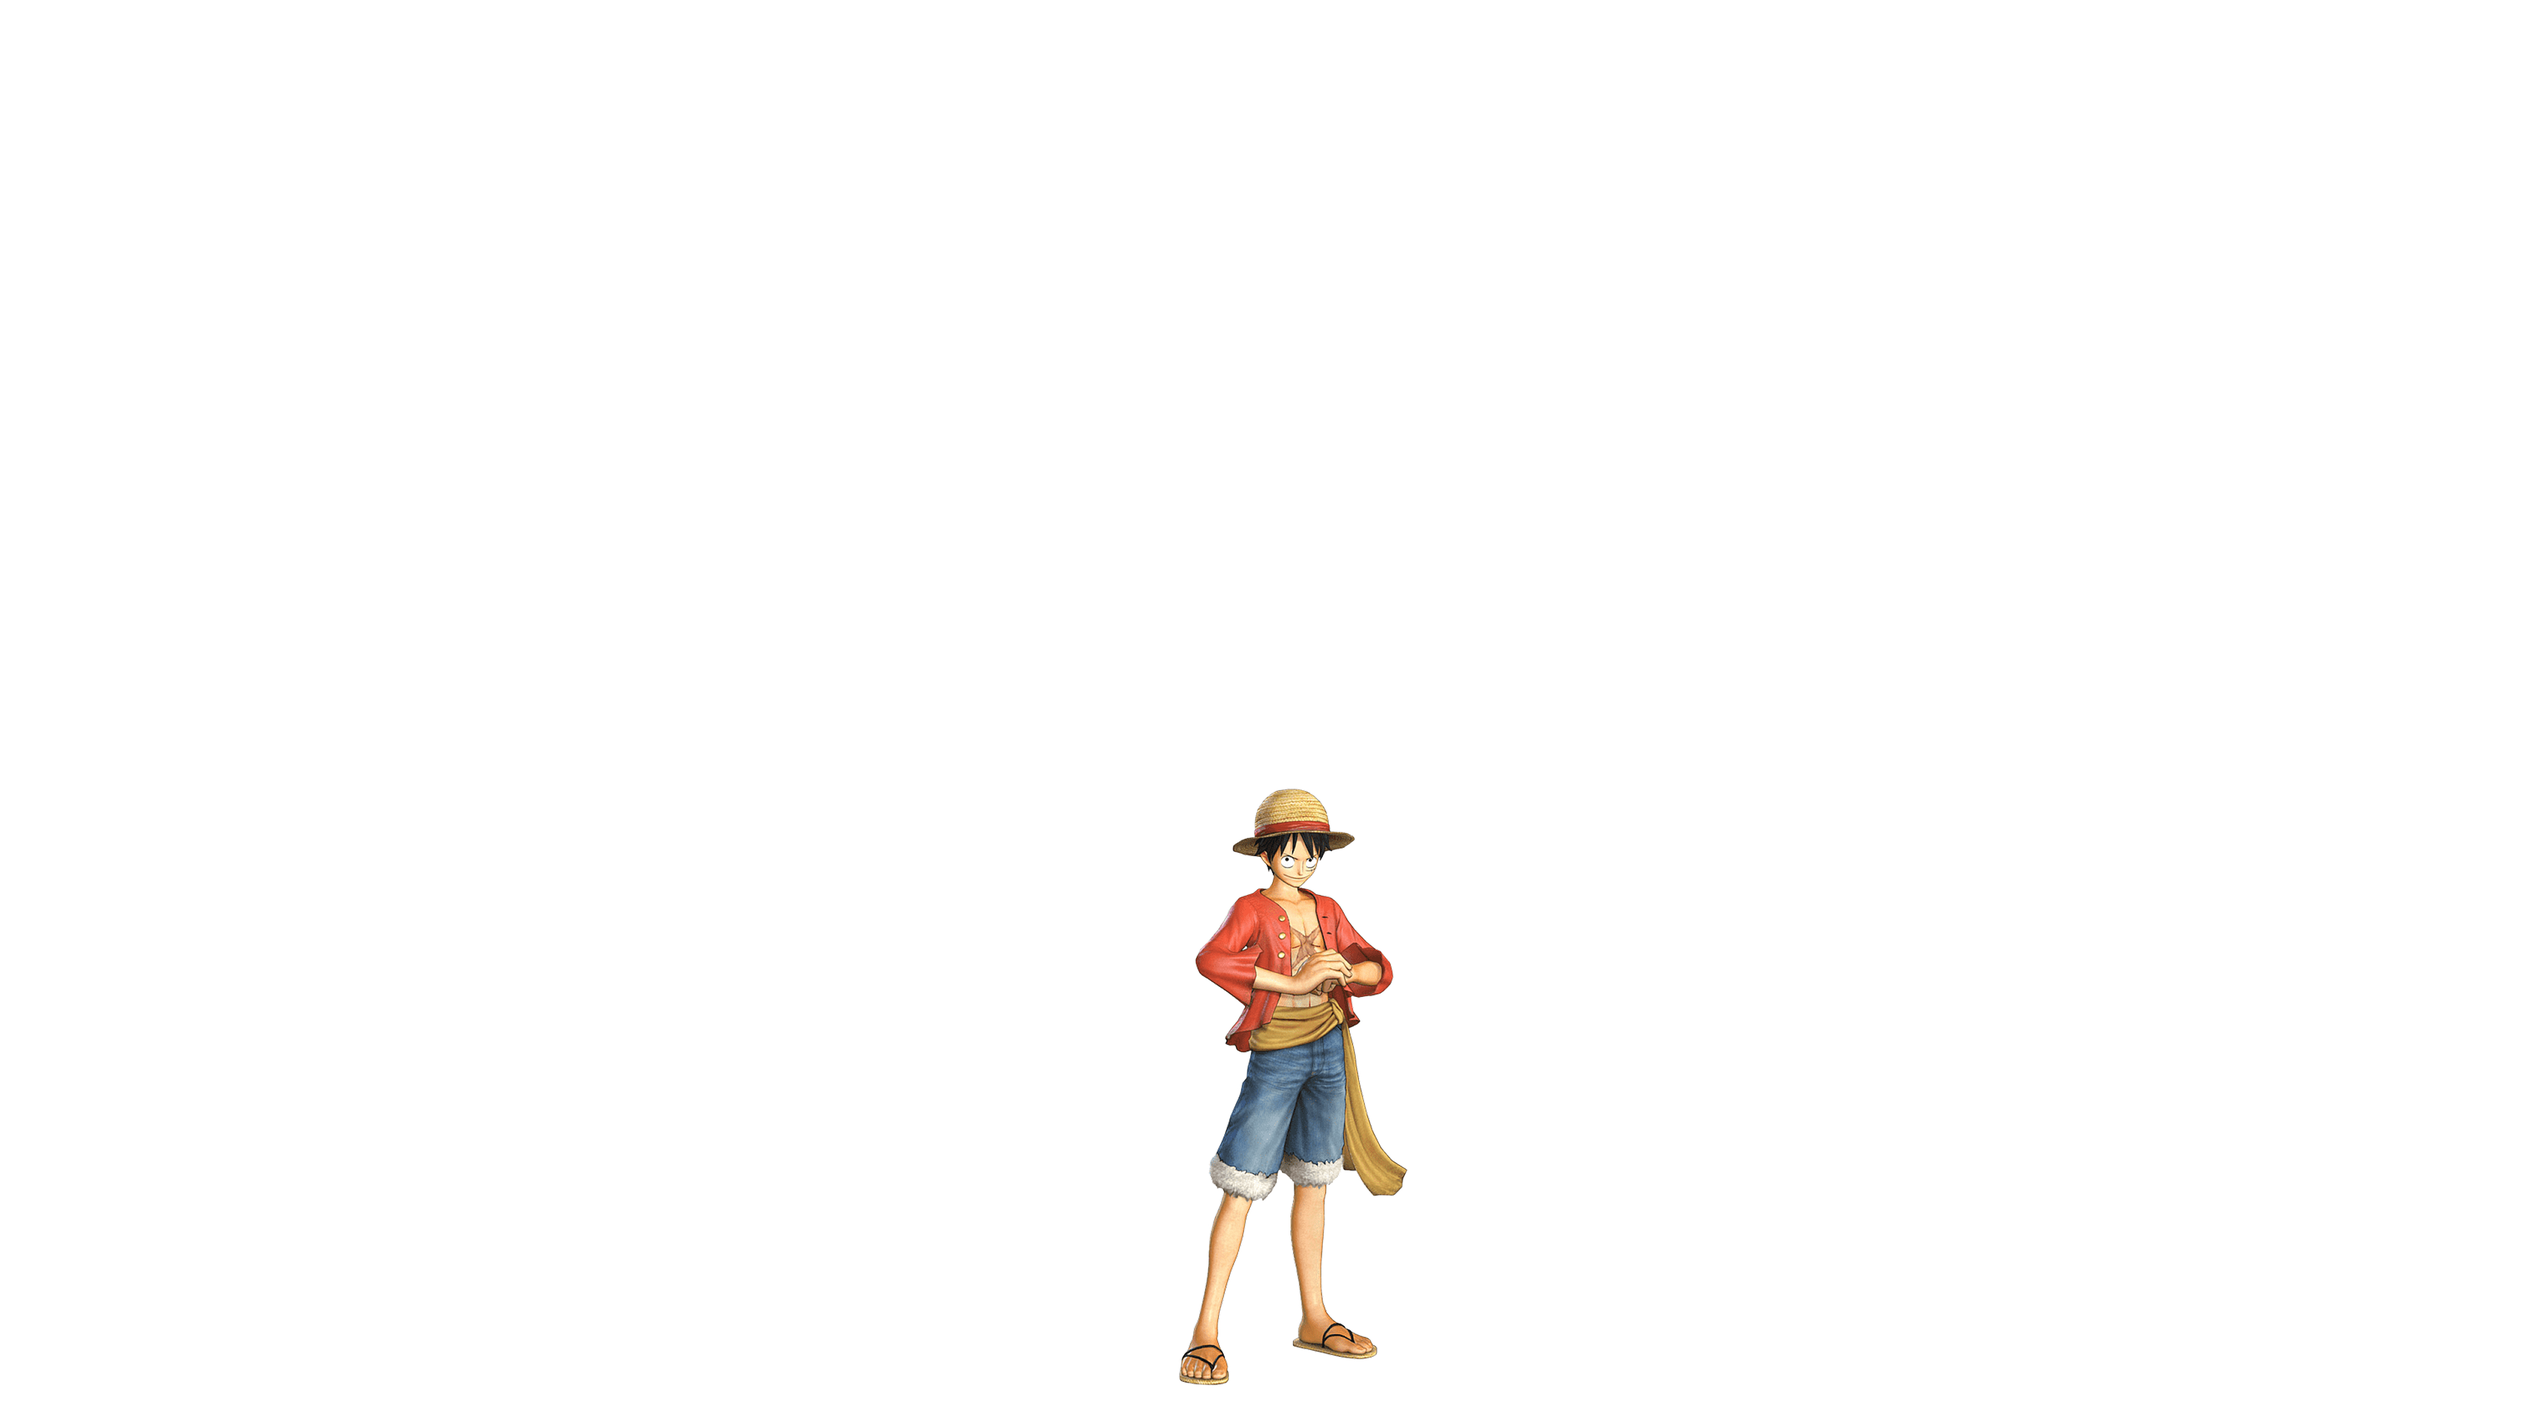
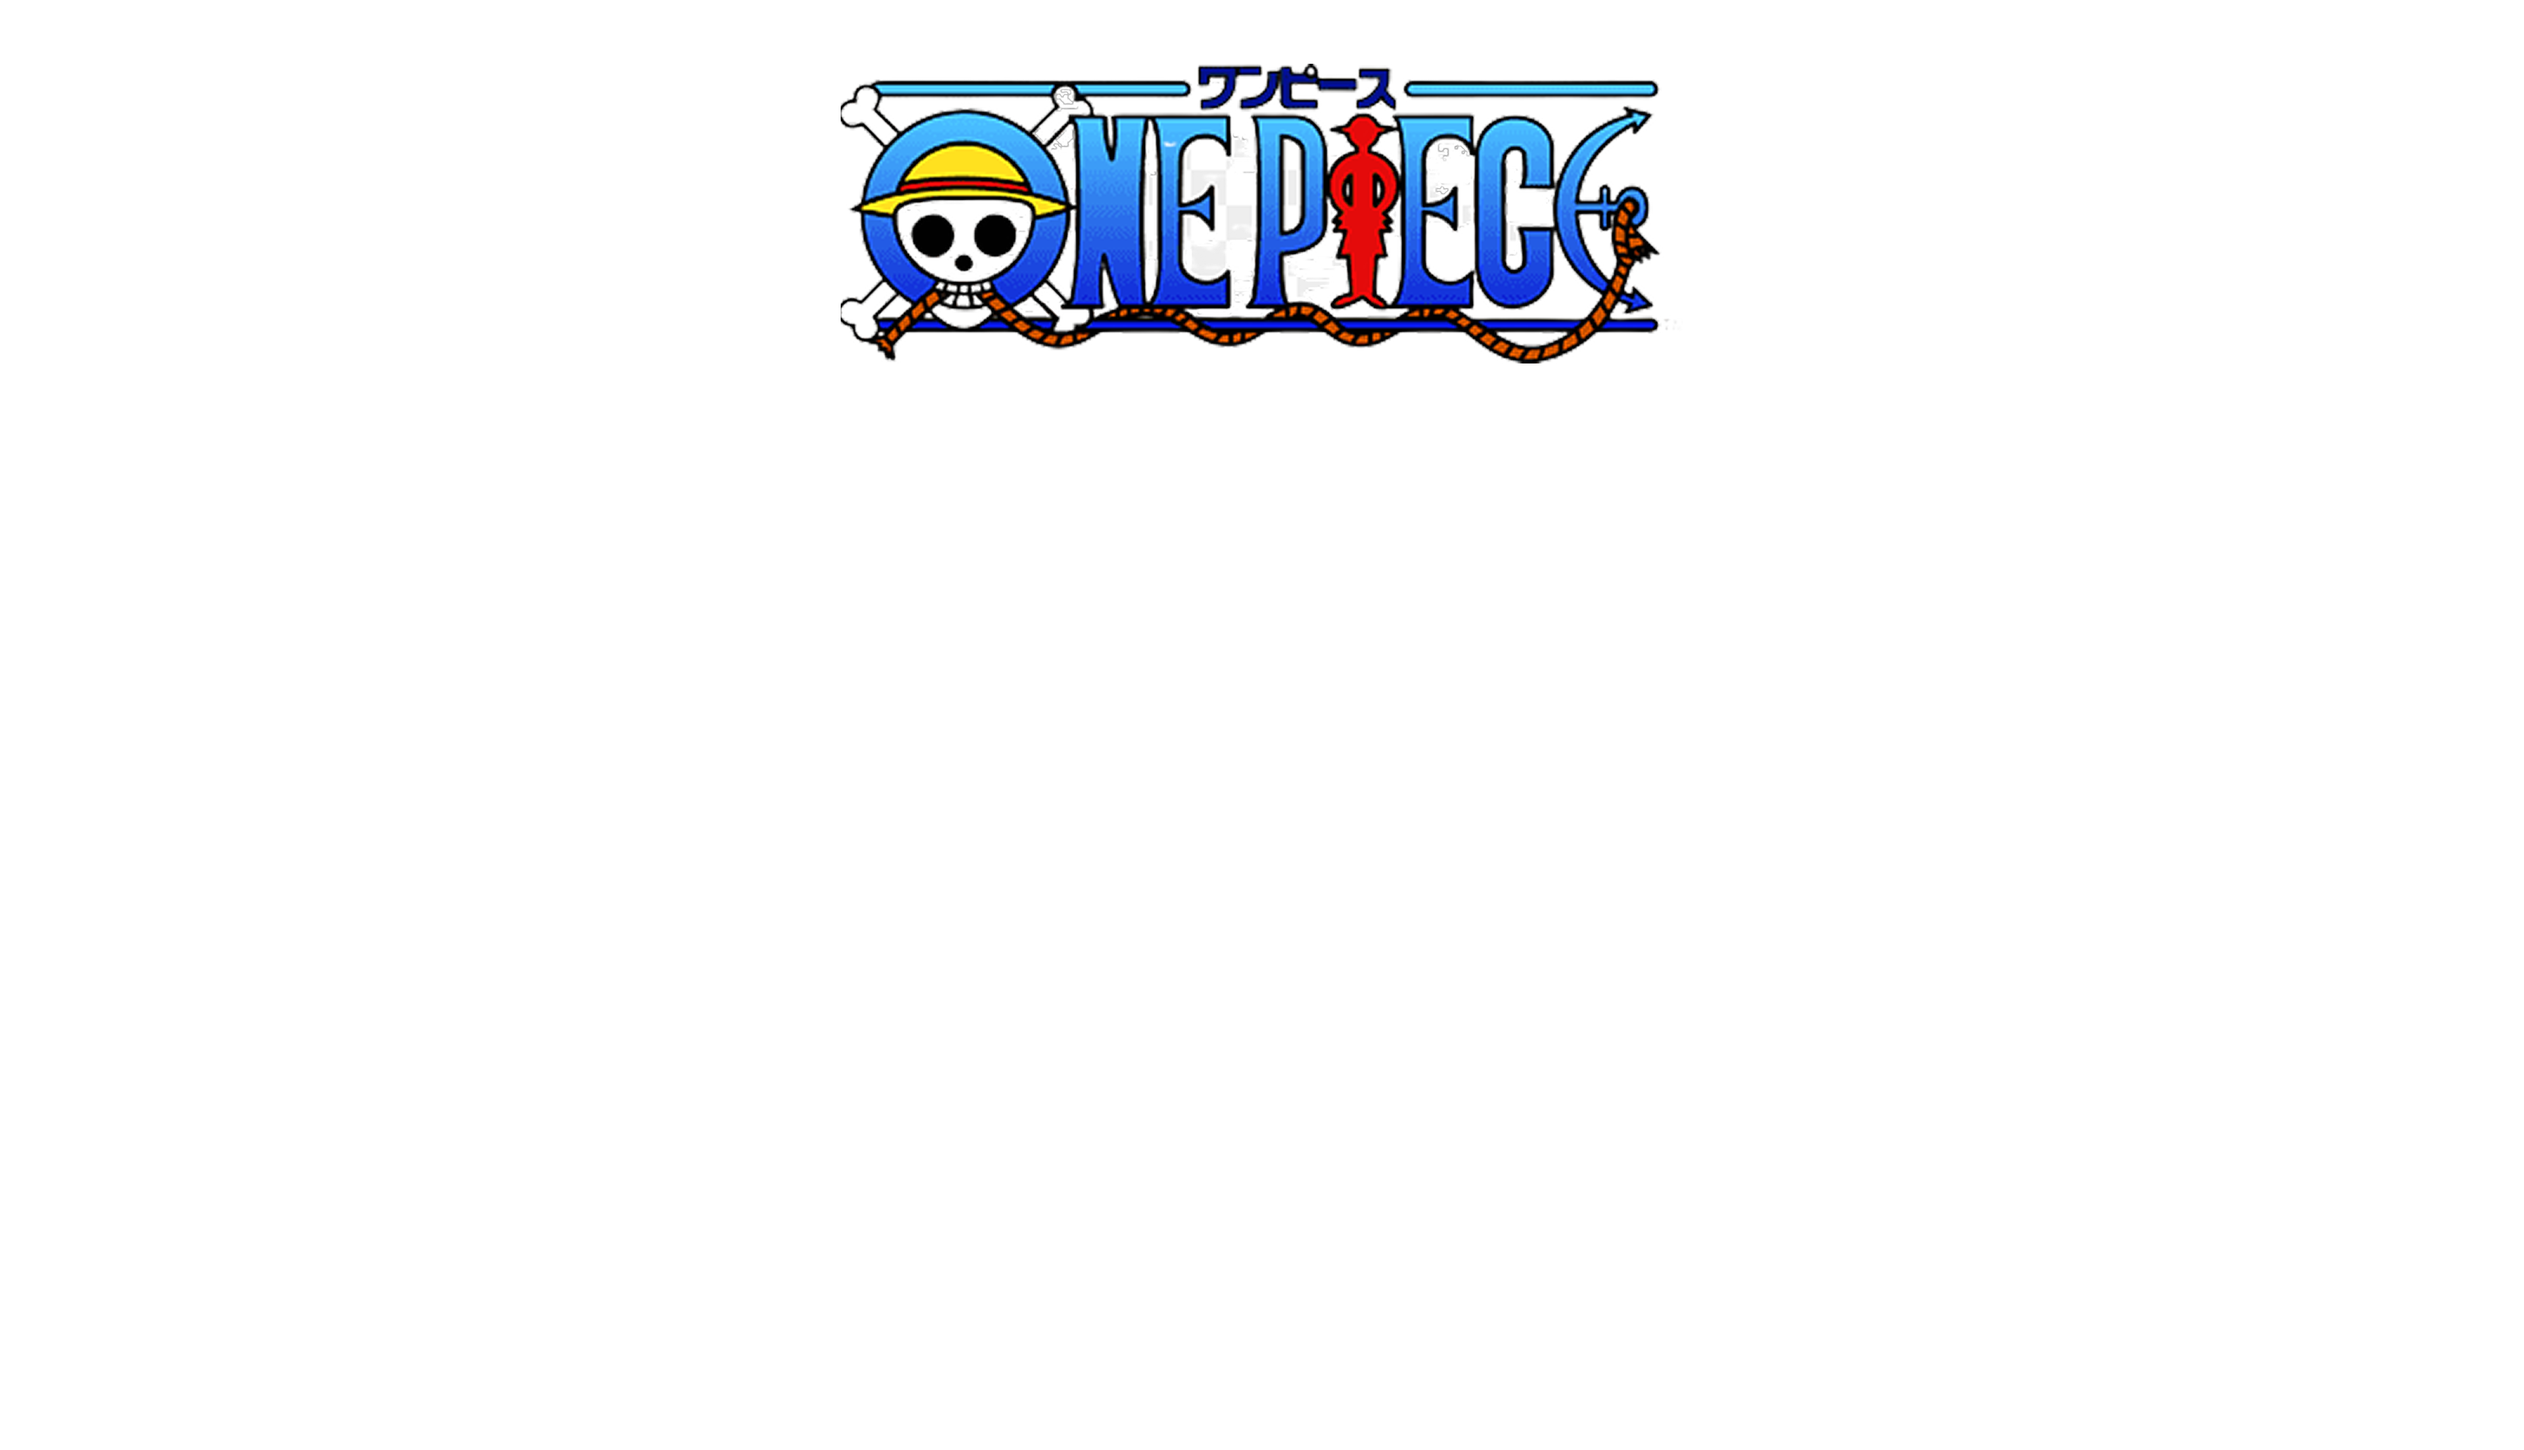
Update Activity 8

Changed region(s): [[0.3125, 0.031, 0.6562, 0.2484], [0.4688, 0.5589, 0.5625, 0.9935]]

diff --git a/A08/banner.html b/A08/banner.html
@@ -6,29 +6,29 @@
 	<meta name="viewport" content="width=device-width, initial-scale=1">
 	<link rel="stylesheet" href="style.css" />
 	<link rel="stylesheet" href="parallax.css" />
-	<title>EZ | Banner</title>
+	<title>One Piece 🌊</title>
 </head>
 
 <body>
 	<section>
 		<div class="keyart" id="parallax">
-			<div class="keyart_layer parallax" id="keyart-0" data-speed="7"></div>
-			<div class="keyart_layer parallax" id="keyart-1" data-speed="9"></div>
-			<div class="keyart_layer parallax" id="keyart-2" data-speed="11"></div>
-			<div class="keyart_layer parallax" id="keyart-3" data-speed="16"></div>
-			<div class="keyart_layer parallax" id="keyart-4" data-speed="26"></div>
-			<div class="keyart_layer parallax" id="keyart-5" data-speed="36"></div>
-			<div class="keyart_layer parallax" id="keyart-6" data-speed="49"></div>
-			<div class="keyart_layer parallax" id="keyart-7" data-speed="69"></div>
-			<div class="keyart_layer" id="keyart-8" data-speed="100"></div>
-			<!--Front image, in sync with scroll, no need to parallax-->
+				<div class="keyart_layer parallax" id="keyart-0" data-speed="50"></div>
+				<div class="keyart_layer parallax" id="keyart-1" data-speed="50"></div>
+				<div class="keyart_layer parallax" id="keyart-2" data-speed="70"></div>
+				<div class="keyart_layer parallax" id="keyart-3" data-speed="70"></div>
+				<div class="keyart_layer parallax" id="keyart-4" data-speed="67"></div>
+				<div class="keyart_layer parallax" id="keyart-5" data-speed="68"></div>
+				<div class="keyart_layer parallax" id="keyart-6" data-speed="65"></div>
+				<div class="keyart_layer parallax" id="keyart-7" data-speed="69"></div>
+				<div class="keyart_layer" id="keyart-8" data-speed="90"></div>
+				<!--Front image, in sync with scroll, no need to parallax-->
 			<!--Add or Remove layers as needed - check Parallax.css for refrence-->
 		</div>
 	</section>
 
 	<section class="main-content">
 		<div
-			style="height: 2000px; background-color: white; font-family: 'Segoe UI', Tahoma, Geneva, Verdana, sans-serif; color: #333; line-height: 1.6;">
+		style="height: 2000px; background: linear-gradient(to bottom, #a2d4f4, #fefefe); font-family: 'Segoe UI', Tahoma, Geneva, Verdana, sans-serif; color: #333; line-height: 1.6;">
 			<header
 				style="display: flex; flex-direction: column; align-items: center; justify-content: center; text-align: center; padding: 80px 20px;">
 				<h1 style="font-size: 3em; margin-bottom: 20px; color: #2c3e50;">One Piece </h1>

diff --git a/index.html b/index.html
@@ -148,7 +148,7 @@
             <div class="container">
                 <h2 class="section-title">Get In Touch</h2>
                 <div class="contact-content">
-                    <p>Have a project in mind or want to collaborate? I'd love to hear from you!</p>
+                    <p>Seeking guidance or assistance with a project? Don’t hesitate to reach out, I’m here to help. </p>
                     <a href="mailto:your.email@example.com" class="btn btn-primary">Email Me</a>
                 </div>
             </div>
